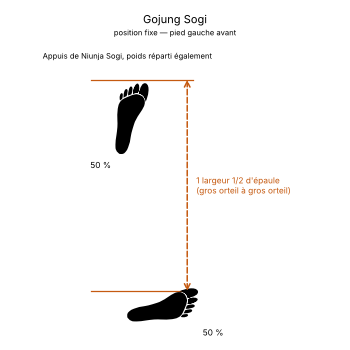
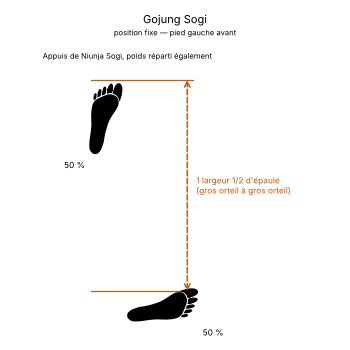
Niunja et Gojung : gros orteil avant 2,5 cm au-delà du talon arrière
Le décalage latéral se prend désormais au gros orteil du pied avant, et
non plus à son talon, dans les deux schémas, le manuel (16.10) et les fiches
Niunja et Gojung.

Claude-Session: https://claude.ai/code/session_01A1NHe48Zve2KgpxbBVKny8

Changed region(s): [[0.1714, 0.2286, 0.4286, 0.4857]]

diff --git a/scripts/generer-sogi.py b/scripts/generer-sogi.py
@@ -522,20 +522,23 @@ def _nachuo(s):
 @position("niunja-sogi", "Niunja Sogi", "position en « L » — pied gauche avant")
 def _niunja(s):
     # Encyclopédie p. 69 : 1 1/2 largeur d'épaule du tranchant du pied
-    # arrière aux orteils du pied avant ; talon avant 2,5 cm au-delà du talon
-    # arrière ; orteils des deux pieds rentrés d'environ 15°.
+    # arrière aux orteils du pied avant ; orteils des deux pieds rentrés
+    # d'environ 15°. Décalage latéral : le gros orteil du pied avant est placé
+    # 2,5 cm au-delà du talon arrière (choix d'Yves, 2026-11-06 ; le texte
+    # anglais de la p. 69 parle du talon avant, mais les croquis p. 69 et 71
+    # montrent le pied avant nettement plus à l'extérieur, comme ici).
     d = s.pied("D", at=(0, 0), angle=-75, repere="talon")
     xt = _xmin(d)
-    g = s.pied("G", at=(xt - 2.5, 0), angle=-15, repere="talon")
+    g = s.pied("G", at=(xt - 2.5, 0), angle=-15, repere="gros-orteil")
     _avancer(g, "orteils", _ymin(d) + EPAULE_15)
     y0, y1 = _ymin(d), _ymax(g)
     s.cote_v(24, y0, y1,
              L_EPAULE_15 + "\n(tranchant du pied arrière\n→ orteils du pied avant)",
              ext=(xt - 12, 26))
     s.cote_h(y0 - 12, xt - 2.5, xt,
-             "Talon avant 2,5 cm au-delà\ndu talon arrière",
+             "Gros orteil avant 2,5 cm\nau-delà du talon arrière",
              ext=(y0 - 14, y0), dessous=True)
-    s.ligne((xt - 2.5, y0 - 14), (xt - 2.5, g.rp("talon")[1]))
+    s.ligne((xt - 2.5, y0 - 14), (xt - 2.5, g.rp("gros-orteil")[1]))
     s.poids(g, "30 %")
     s.poids(d, "70 %")
     s.texte((0, y1 + 8), "Pieds à ~90°, orteils rentrés de 15°")
@@ -546,7 +549,7 @@ def _gojung(s):
     # Encyclopédie p. 71 : placement de Niunja Sogi, 1 1/2 largeur d'épaule
     # entre les gros orteils, poids réparti également.
     d = s.pied("D", at=(0, 0), angle=-75, repere="talon")
-    g = s.pied("G", at=(_xmin(d) - 2.5, 0), angle=-15, repere="talon")
+    g = s.pied("G", at=(_xmin(d) - 2.5, 0), angle=-15, repere="gros-orteil")
     _avancer(g, "gros-orteil", d.rp("gros-orteil")[1] + EPAULE_15)
     y0, y1 = d.rp("gros-orteil")[1], g.rp("gros-orteil")[1]
     s.cote_v(20, y0, y1, L_EPAULE_15 + "\n(gros orteil à gros orteil)",

diff --git a/Theorie/manuel/partie-4-positions-sogi/16-les-21-positions-en-detail.md b/Theorie/manuel/partie-4-positions-sogi/16-les-21-positions-en-detail.md
@@ -114,7 +114,7 @@ Chaque fiche donne les dimensions, l'orientation des pieds, la répartition du p
 
 * **Nomenclature coréenne :** *Niunja Sogi / [ㄴ자 서기](../../../audio/grammaire/Niunja-Sogi.m4a)*.
 * **Longueur :** **Une largeur et demie d'épaule** mesurée du tranchant du pied arrière (*Balkal*) aux orteils du pied avant.
-* **Alignement et décalage :** Les pieds forment presque un angle droit (90°). Les orteils de chaque pied pointent à environ **15 degrés vers l'intérieur**. Le talon du pied avant dépasse d'environ **2,5 cm** le talon du pied arrière, vers l'extérieur, pour une meilleure stabilité.
+* **Alignement et décalage :** Les pieds forment presque un angle droit (90°). Les orteils de chaque pied pointent à environ **15 degrés vers l'intérieur**. Le gros orteil du pied avant se place environ **2,5 cm au-delà du talon du pied arrière**, vers l'extérieur, pour une meilleure stabilité.
 * **Poids :** Réparti à **70% sur la jambe arrière** et **30% sur la jambe avant**.
 * **Flexion :**
     * Jambe arrière : Fléchie jusqu'à ce que la rotule forme une ligne verticale droite avec les orteils. Conserver la hanche parfaitement alignée avec la jointure interne du genou arrière.

diff --git a/sogi/Niunja-Sogi.md b/sogi/Niunja-Sogi.md
@@ -28,7 +28,7 @@ La position en L est conçue pour offrir un excellent compromis entre protection
     * **30 % du poids du corps** repose sur la jambe avant.
 2. **La position et l'orientation des pieds :**
     * **Longueur :** Environ **1,5 largeur d'épaules**, mesurée du tranchant du pied arrière aux orteils du pied avant. Les deux pieds forment presque un angle droit.
-    * **Largeur :** Le talon du pied avant dépasse le talon du pied arrière d'environ **2,5 cm**, pour une meilleure stabilité.
+    * **Largeur :** Le gros orteil du pied avant se place environ **2,5 cm au-delà du talon du pied arrière**, vers l'extérieur, pour une meilleure stabilité.
     * **Pied arrière :** Presque perpendiculaire à la ligne d'attaque, orteils tournés d'environ **15° vers l'intérieur**, pour former la base du « L ».
     * **Pied avant :** Pointe vers l'avant, orteils tournés d'environ **15° vers l'intérieur**.
 3. **La flexion des jambes et le buste :**

diff --git a/sogi/Gojung-Sogi.md b/sogi/Gojung-Sogi.md
@@ -14,7 +14,7 @@ C'est une variante de la position en L (*Niunja Sogi*) dans laquelle le poids es
 
 | Caractéristique | Norme technique ITF |
 | --- | --- |
-| **Placement des pieds** | Comme en position en L : les pieds forment presque un angle droit, les orteils des deux pieds tournés d'environ **15° vers l'intérieur**, le talon avant dépassant légèrement le talon arrière. |
+| **Placement des pieds** | Comme en position en L : les pieds forment presque un angle droit, les orteils des deux pieds tournés d'environ **15° vers l'intérieur**, le gros orteil avant placé environ 2,5 cm au-delà du talon arrière. |
 | **Longueur** | **Une largeur d'épaules et demie**, mesurée entre les gros orteils des deux pieds. |
 | **Répartition du poids** | **50 % / 50 %**, également sur les deux jambes (contre 70 / 30 en position en L). |
 | **Position des genoux** | Les deux genoux sont fléchis, sans excès, et ne rentrent pas vers l'intérieur. |
